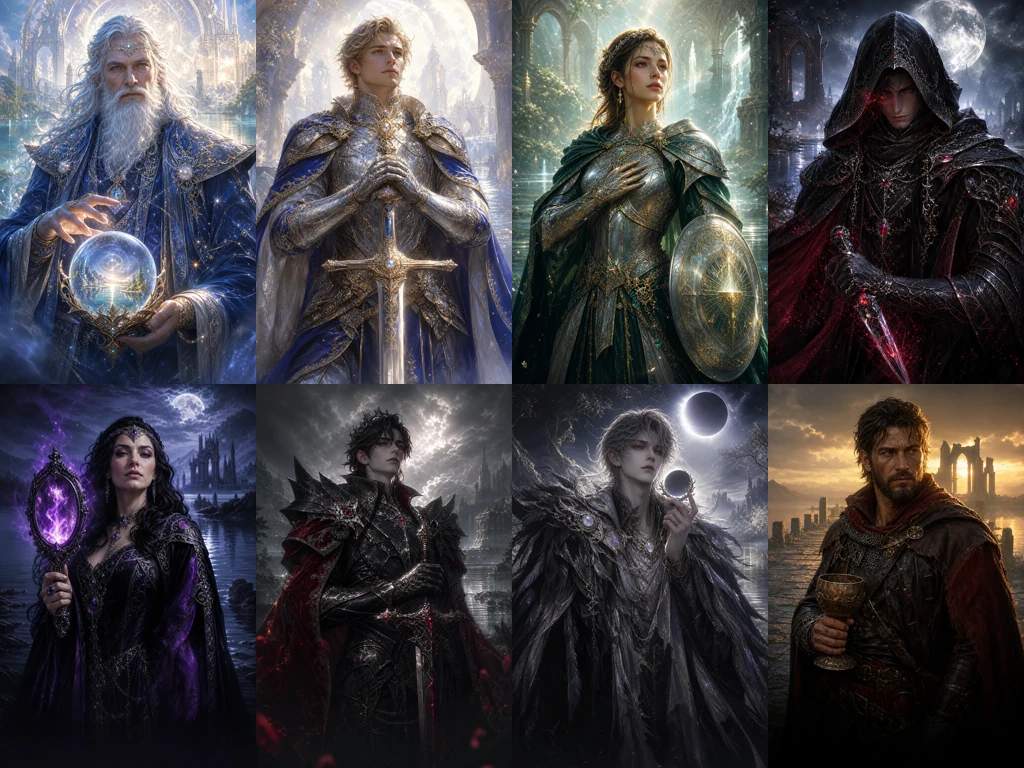
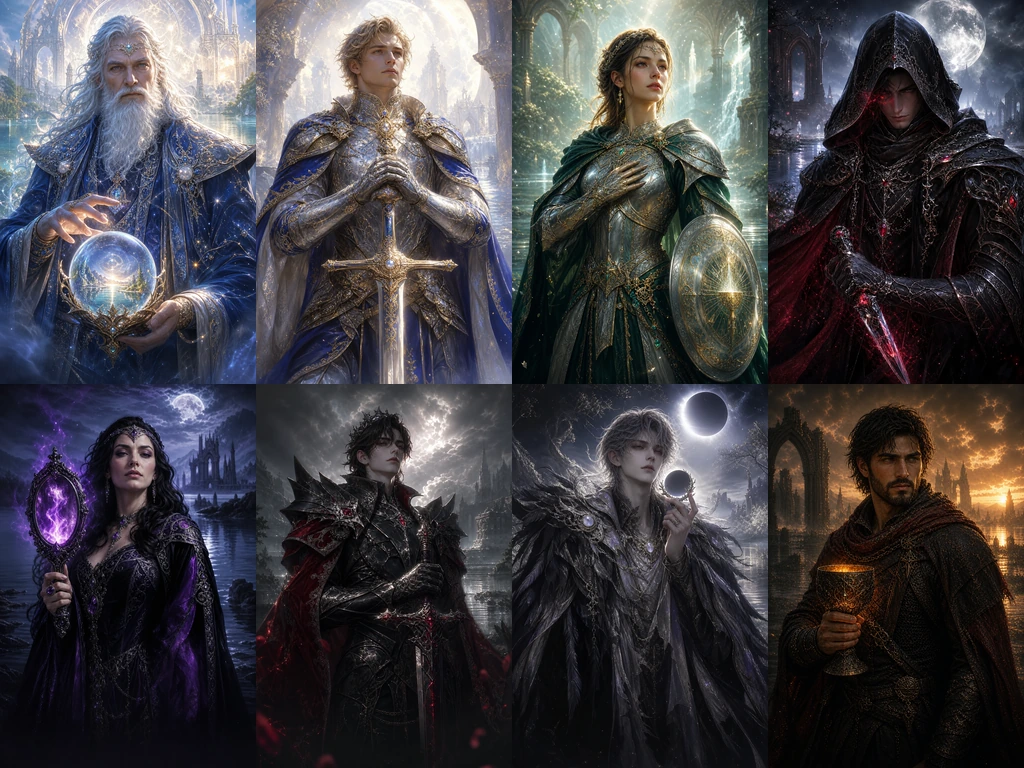
feat(avalon): refine minion skin and record recruit variant

Changed region(s): [[0.75, 0.5, 1.0, 0.9062], [0.875, 0.875, 0.9062, 0.9375]]

diff --git a/frontend/src/components/GameRuleSettings.vue b/frontend/src/components/GameRuleSettings.vue
@@ -15,7 +15,11 @@ function option(key: string): unknown {
 }
 
 function setOption(key: string, value: unknown) {
-  emit('update:modelValue', { ...props.modelValue, [key]: value })
+  const nextValue = { ...props.modelValue, [key]: value }
+  if (props.gameKey === 'gomoku' && key === 'winRule' && value === 'renju') {
+    nextValue.openingRule = 'standard'
+  }
+  emit('update:modelValue', nextValue)
 }
 </script>
 
@@ -81,8 +85,13 @@ function setOption(key: string, value: unknown) {
     <section v-if="gameKey === 'gomoku'" class="rule-setting-group">
       <header><strong>开局规则</strong><small>Swap2 通过摆子和交换选色降低先手优势</small></header>
       <div class="rule-option-grid">
-        <button type="button" :class="{ active: option('openingRule') === 'swap2' }" @click="setOption('openingRule', 'swap2')">
-          <strong>Swap2 公平开局</strong><small>两黑一白后由对手选色或再摆两子</small>
+        <button
+          type="button"
+          :class="{ active: option('openingRule') === 'swap2' }"
+          :disabled="option('winRule') === 'renju'"
+          @click="setOption('openingRule', 'swap2')"
+        >
+          <strong>Swap2 公平开局</strong><small>{{ option('winRule') === 'renju' ? '有禁手连珠不适用 Swap2' : '两黑一白后由对手选色或再摆两子' }}</small>
         </button>
         <button type="button" :class="{ active: option('openingRule') === 'standard' }" @click="setOption('openingRule', 'standard')">
           <strong>标准开局</strong><small>执黑玩家直接先行</small>
@@ -169,6 +178,7 @@ function setOption(key: string, value: unknown) {
 .rule-option-grid button { min-height: 68px; display: grid; align-content: center; gap: 3px; border: 1px solid var(--line); border-radius: 12px; padding: 11px 12px; color: var(--text); background: rgba(0, 0, 0, .12); text-align: left; }
 .rule-option-grid small { color: var(--muted); line-height: 1.35; }
 .rule-option-grid button.active, .rule-segmented button.active { border-color: color-mix(in srgb, var(--gold) 65%, var(--line)); background: color-mix(in srgb, var(--gold) 10%, transparent); box-shadow: inset 0 0 0 1px color-mix(in srgb, var(--gold) 18%, transparent); }
+.rule-option-grid button:disabled { cursor: not-allowed; opacity: .48; }
 .rule-segmented { display: grid; grid-template-columns: repeat(2, minmax(0, 1fr)); border: 1px solid var(--line); border-radius: 12px; overflow: hidden; }
 .rule-segmented.three { grid-template-columns: repeat(3, minmax(0, 1fr)); }
 .rule-segmented.six { grid-template-columns: repeat(6, minmax(0, 1fr)); }

diff --git a/frontend/src/components/GameRuleSettings.test.ts b/frontend/src/components/GameRuleSettings.test.ts
@@ -16,22 +16,26 @@ describe('GameRuleSettings', () => {
     const renju = wrapper
       .findAll('button')
       .find((button) => button.text().includes('有禁手连珠'))
-    const standardOpening = wrapper
+    const swap2Opening = wrapper
       .findAll('button')
-      .find((button) => button.text().includes('标准开局'))
-    await exactFive?.trigger('click')
-    await renju?.trigger('click')
-    await standardOpening?.trigger('click')
+      .find((button) => button.text().includes('Swap2 公平开局'))
 
-    expect(wrapper.emitted('update:modelValue')?.[0]?.[0]).toMatchObject({
+    expect(defaultGameRules('gomoku')).toMatchObject({
       winRule: 'exact_five',
+      openingRule: 'swap2',
     })
-    expect(wrapper.emitted('update:modelValue')?.[1]?.[0]).toMatchObject({
+    expect(exactFive?.classes()).toContain('active')
+    await renju?.trigger('click')
+    const renjuRules = wrapper.emitted('update:modelValue')?.[0]?.[0]
+    expect(renjuRules).toMatchObject({
       winRule: 'renju',
-    })
-    expect(wrapper.emitted('update:modelValue')?.[2]?.[0]).toMatchObject({
       openingRule: 'standard',
     })
+    await wrapper.setProps({ modelValue: renjuRules as Record<string, unknown> })
+    expect(swap2Opening?.attributes('disabled')).toBeDefined()
+    expect(swap2Opening?.text()).toContain('有禁手连珠不适用 Swap2')
+    await swap2Opening?.trigger('click')
+    expect(wrapper.emitted('update:modelValue')).toHaveLength(1)
     expect(wrapper.text()).not.toContain('19 路')
     expect(wrapper.text()).toContain('正好五子')
     expect(wrapper.text()).toContain('有禁手连珠')
@@ -41,6 +45,7 @@ describe('GameRuleSettings', () => {
 
   it('builds readable labels with defaults and selected Go rules', () => {
     expect(gameRuleLabels('gomoku', {})).toContain('Swap2 开局')
+    expect(gameRuleLabels('gomoku', {})).toContain('正好五子')
     expect(gameRuleLabels('xiangqi', {})).toEqual([
       '随机先手',
       '允许悔棋',

diff --git a/frontend/src/views/ArcadeHome.test.ts b/frontend/src/views/ArcadeHome.test.ts
@@ -42,7 +42,7 @@ describe('ArcadeHome', () => {
       expect.objectContaining({
         winRule: 'renju',
         firstPlayer: 'random',
-        openingRule: 'swap2',
+        openingRule: 'standard',
       }),
     )
     expect(createRoom.mock.calls[0]?.[1]).not.toHaveProperty('boardSize')

diff --git a/frontend/src/gameRules.ts b/frontend/src/gameRules.ts
@@ -22,7 +22,7 @@ export function defaultGameRules(
     options.allowDraw = true
   }
   if (gameKey === 'gomoku') {
-    options.winRule = 'freestyle'
+    options.winRule = 'exact_five'
     options.openingRule = 'swap2'
   }
   if (gameKey === 'doudizhu') options.variant = 'classic'

diff --git a/backend/tests/test_arcade_games.py b/backend/tests/test_arcade_games.py
@@ -345,32 +345,16 @@ def test_gomoku_swap2_can_add_two_stones_before_first_player_chooses() -> None:
     assert room.state.turn_seat == second.seat
 
 
-def test_swap2_and_renju_still_require_the_first_black_stone_at_center() -> None:
+def test_gomoku_rejects_swap2_with_renju() -> None:
     engine = GomokuEngine()
-    room = make_room(
-        engine,
-        2,
-        {
-            "winRule": "renju",
-            "openingRule": "swap2",
-        },
-    )
 
-    with pytest.raises(GameRuleError, match="天元"):
-        engine.act(
-            room,
-            room.players[0],
-            "place",
-            {"row": 0, "column": 0},
+    assert engine.room_options(
+        {"winRule": "renju", "openingRule": "standard"}
+    ) == {"winRule": "renju", "openingRule": "standard"}
+    with pytest.raises(GameRuleError, match="有禁手连珠不能使用 Swap2"):
+        engine.room_options(
+            {"winRule": "renju", "openingRule": "swap2"}
         )
-
-    engine.act(
-        room,
-        room.players[0],
-        "place",
-        {"row": 7, "column": 7},
-    )
-    assert room.state.board[7][7] == 1
 
 
 def test_gomoku_two_consecutive_passes_draw_and_a_move_resets_passes() -> None:

diff --git a/backend/app/games/gomoku/engine.py b/backend/app/games/gomoku/engine.py
@@ -52,6 +52,8 @@ class GomokuEngine:
         opening_rule = options.get("openingRule", "standard")
         if opening_rule not in OPENING_RULES:
             raise GameRuleError("请选择标准开局或 Swap2 开局")
+        if win_rule == RENJU_RULE and opening_rule == SWAP2_RULE:
+            raise GameRuleError("有禁手连珠不能使用 Swap2，请选择标准开局")
         return {
             "winRule": win_rule,
             "openingRule": opening_rule,

diff --git a/docs/AVALON_UNTRUSTWORTHY_SERVANT.md b/docs/AVALON_UNTRUSTWORTHY_SERVANT.md
@@ -1,0 +1,66 @@
+# 阿瓦隆“不可信忠臣”变体规则草案
+
+> 状态：规则设计已记录，尚未开发，不属于当前线上规则。
+
+## 设计目标
+
+- 增加普通忠臣在任务阶段的观察、伪装和终局参与感。
+- 保留邪恶方通过三个失败任务直接获胜的原有路线。
+- 招募只能在好人完成三个成功任务后发生。
+- 不提供只有真正忠臣才能触发的“主动投名”系统技能，避免通过按钮、时间或通知反推身份；公开发言中的主动求招募和反向冒充不受限制。
+
+## 身份与初始信息
+
+- 不可信忠臣替换一名普通忠臣，招募前属于好人，只能提交成功任务牌。
+- 梅林按现有规则看到可见的邪恶阵营，但不知道刺客、莫甘娜等具体邪恶角色；梅林另外单独知道谁是不可信忠臣。
+- 不可信忠臣准确知道谁是刺客，但不知道梅林、派西维尔和其他邪恶角色。
+- 刺客不知道谁是不可信忠臣，只能在系统提供的招募候选人中判断。
+- 莫德雷德对梅林隐藏、奥伯伦的邪恶方互认限制继续按原规则生效。
+
+## 人数配置
+
+不可信忠臣始终替换一名普通忠臣，不改变开局好坏人数。
+
+| 人数 | 好人配置 | 招募候选人数 |
+| --- | --- | ---: |
+| 6 | 梅林、派西维尔、不可信忠臣、普通忠臣 | 2（忠臣 + 1 名好人诱饵） |
+| 7 | 梅林、派西维尔、不可信忠臣、普通忠臣 | 2（忠臣 + 1 名好人诱饵） |
+| 8 | 梅林、派西维尔、不可信忠臣、普通忠臣 ×2 | 2（忠臣 + 1 名好人诱饵） |
+| 9 | 梅林、派西维尔、不可信忠臣、普通忠臣 ×3 | 3（忠臣 + 2 名好人诱饵） |
+| 10 | 梅林、派西维尔、不可信忠臣、普通忠臣 ×3 | 3（忠臣 + 2 名好人诱饵） |
+
+- 招募诱饵从其余好人中产生，不能由刺客指定。
+- 候选名单由服务端预先生成，不能由忠臣点击按钮或发言触发。
+- 招募候选的生成与展示不得暴露提交时间、先后顺序或其他可关联元数据。
+
+## 招募与刺杀
+
+好人完成三个成功任务后，固定进入招募阶段：
+
+1. 刺客从对应人数的候选名单中选择一人。
+2. 选择错误：招募失败，不可信忠臣保持好人阵营，好人获胜；刺客没有普通刺杀作为保底。
+3. 选择正确：不可信忠臣强制转为邪恶阵营，原刺客失去本局刺杀权。
+4. 系统向转化后的忠臣提供两名“王室候选”，其中恰好一人是梅林，另一人是随机的非梅林好人。
+5. 不可信忠臣只能在两名王室候选中刺杀一人；刺中梅林则邪恶方获胜，刺错则好人获胜。
+
+招募诱饵与王室候选中的非梅林诱饵应独立生成，避免名单之间产生额外身份信息。
+
+## 胜负与平衡基线
+
+- 邪恶方完成三个失败任务：邪恶方按原规则获胜，招募阶段不发生。
+- 6–8 人的基础终局链路为“二选一招募 × 二选一刺杀”。
+- 9–10 人的基础终局链路为“三选一招募 × 二选一刺杀”，用于抵消大人数局更强的邪恶任务能力。
+- 实际平衡不能只看总胜率；实现后应分别记录邪恶任务胜率、招募命中率和转化忠臣刺杀命中率。
+
+## 明确不加入
+
+- 不可信忠臣专属的主动投名按钮或即时系统通知。
+- 招募失败后的刺客普通刺杀。
+- 招募成功后刺客与不可信忠臣各刺杀一次。
+- 招募前允许不可信忠臣提交失败任务牌。
+
+## 开发前仍需确认
+
+- 招募候选名单是在开局向刺客展示，还是只在三个成功任务后展示。
+- 好人诱饵是否提前知道自己是招募诱饵，以及该信息是否需要按人数调整。
+- 该变体是否先仅在 6–8 人房开放，再根据实测数据开放 9–10 人。

diff --git a/README.md b/README.md
@@ -11,7 +11,7 @@
 - 账号名固定用于登录；游戏昵称统一用于大厅、对局、聊天与排行榜，设置中可每 30 天修改一次，旧昵称仍归原账号保留
 - 每款游戏均可查看独立战绩和排行榜，也可在大厅查看全部战绩
 - 通用公开房间列表、邀请码、掉线重连、认输、再来一局和结算落库；部分玩家掉线有 10 分钟重连保护
-- 五子棋：15 路棋盘、回合校验、五连胜负与和棋
+- 五子棋：15 路棋盘、自由五子、正好五子与黑方禁手连珠；Swap2 仅用于无禁手玩法
 - 中国象棋：完整基础走子、蹩马腿、塞象眼、炮架、将帅照面、自将校验、将死与困毙
 - 围棋：19 路棋盘、提子、禁入点、简单劫、停一手、中国面积数子与 7.5 目贴目
 - 德州扑克：2–8 人大小盲、翻牌/转牌/河牌、过牌/跟注/加注/全押、边池与摊牌结算
